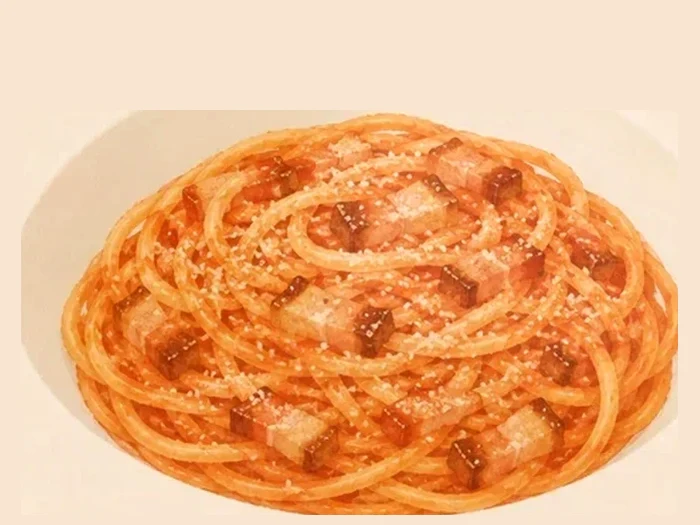
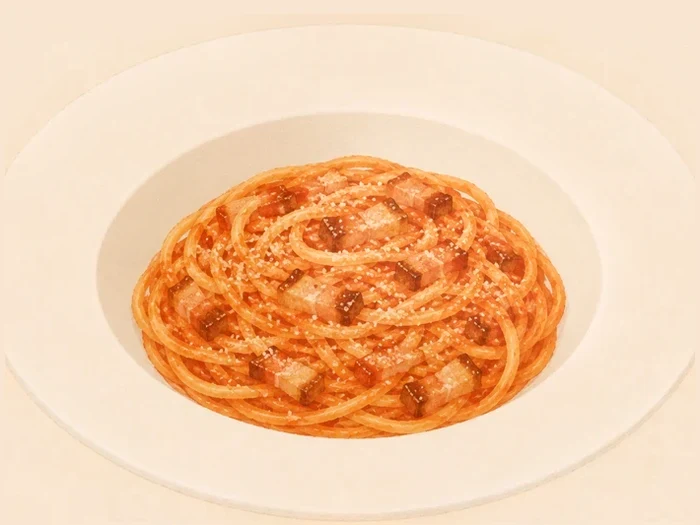
切口一律落在畫布邊界，不再是「貼一塊到背景上」
真正的 bug 找到了：我的做法是「裁一塊 → 貼到一張填滿背景色的畫布上」。
只要裁切線切過器皿，那條硬邊就落在畫布裡面、四周還圍著背景，
看起來就是盤子在半空中被削掉一塊。使用者的原話：
「不是在背景裡面盤子莫名就斷了」，「要切掉也是讓卡片的匡線切掉」。

改成：先由主體算縮放比，再回推「整張畫布對應到原圖的哪個窗」，直接裁那個窗。
這樣任何切口都發生在畫布邊界上，讀起來是自然的出血。

⚠ PIL 的 crop 超出原圖範圍時補「黑色」不是背景色 —— 第一版直接用，
r16 和 r17 上緣就出現一條黑邊。改成自己鋪一張背景色的底再貼。

FILL 0.94 → 0.98。卡片是 aspect-ratio:4/3 + object-fit:cover，跟素材同比例，
素材裡的留白會原樣顯示在卡片上，所以這個值直接決定「菜看起來多大」。

⛔ 撤回我先前說的「食物要變大只能重生成」。盤裡的留白是刻意的擺盤，
不是缺陷 —— 要大就整張等比放大，不是去切掉留白。

r3/r14/r15/r16 先還原到我第一次重切之前再切一次，避免越裁越近。

diff --git a/index.html b/index.html
@@ -810,7 +810,7 @@ ol.steps li::before {
    ══════════════════════════════════════════════ */
 
 /* 素材版本。換過圖就 bump 一次，否則瀏覽器會一直用舊的快取 */
-const ASSETS = '54';
+const ASSETS = '55';
 const asset = p => p + '?v=' + ASSETS;
 
 const $ = (s, el = document) => el.querySelector(s);

diff --git a/assets/crop_dish.py b/assets/crop_dish.py
@@ -14,7 +14,11 @@ from PIL import Image, ImageFilter
 
 TGT = (249, 230, 209)     # #F9E6D1，必須跟 index.html 的 --bg 完全一致
 OUT_W, OUT_H = 700, 525
-FILL = 0.94               # ⚠ 不要調到 1.0：撐滿會把器皿邊緣切掉（r17、r11 各踩過一次）
+FILL = 0.98               # 卡片是 aspect-ratio:4/3 + object-fit:cover，跟素材同比例，
+                          # 所以素材裡的留白會原樣顯示在卡片上 —— 這個值直接決定
+                          # 「菜看起來多大」。⚠ 不要到 1.0：分位數有誤差，撐滿會削到器皿邊。
+                          # ⛔ 也不要為了「食物看起來小」去切食物 —— 盤裡的留白是
+                          #    刻意的擺盤，切掉就沒有餐廳感了。要大就整張等比放大。
 SOLID = 18                # 兩邊都會出事，18 是實測的中間值：
                           #  · 太寬（34）→ 白色器皿被判成背景，整圈盤子被切掉
                           #  · 太窄（8） → 連紙紋和淡陰影都算進去，框會膨脹，
@@ -87,27 +91,41 @@ def gaps(flat, x0, x1, lo, hi, axis):
     return int(st.median(band)) if band else (lo + hi) // 2
 
 
-def render(flat, box, path):
-    """⚠ 垂直方向要「貼底」不是「置中」。東西放在桌上本來就對齊同一條底線 ——
-    置中的話，小盤子和小碟子會浮起來，跟旁邊坐在卡片底部的大鍋擺在一起就很明顯。
-    實測：置中切出來的 r10/r11 下緣留 41–61px，其他張只留 9–13px，
-    使用者的原話是「只有他們倆往上飄」。"""
+def render(flat, box, path, cell=None):
+    """⛔ 不要「裁一塊再貼到背景畫布上」。裁切線只要切過器皿，那條硬邊就會落在
+    畫布裡面、四周還圍著背景 —— 看起來像盤子在半空中被削掉一塊。
+    使用者的原話：「不是在背景裡面盤子莫名就斷了」。
+
+    正確做法：先由主體算出縮放比，再回推「整張畫布對應到原圖的哪個窗」，
+    直接裁那個窗。這樣任何切口都發生在畫布邊界上，讀起來就是自然的出血。
+
+    ⚠ 垂直方向貼底（見下），水平置中。
+    """
     l, r, t, b = box
     sc = min(OUT_W * FILL / (r - l), OUT_H * FILL / (b - t))
-    nw, nh = int((r - l) * sc), int((b - t) * sc)
-    # 對齊的是「看得見的底」，不是框的底 —— 框裡含著淡陰影，
-    # 拿框去貼底的話陰影會佔掉下緣，器皿本身還是浮著（r10 實測差 37px）。
+
+    # 看得見的底緣（淡陰影不算），拿來對齊 BASELINE
     f = flat.load()
-    strong = [y for y in range(t, b, 2) for x in range(l, r, 3) if d(f[x, y], TGT) > 70]
+    strong = [y for y in range(t, b, 2) for x in range(l, r, 3) if d(f[x, y], TGT) > FOOD]
     vis_b = max(strong) if strong else b
-    off = int((vis_b - t) * sc)                       # 看得見的底在貼上後的相對位置
-    top = min(max(OUT_H - BASELINE - off, 0), OUT_H - nh)   # FILL<1，nh 一定放得下
-    out = Image.new('RGB', (OUT_W, OUT_H), TGT)
-    out.paste(flat.crop((l, t, r, b)).resize((nw, nh), Image.LANCZOS),
-              ((OUT_W - nw) // 2, top))
+
+    win_w, win_h = OUT_W / sc, OUT_H / sc          # 畫布換算回原圖的尺寸
+    wx = (l + r) / 2 - win_w / 2                    # 水平置中
+    wy = vis_b + BASELINE / sc - win_h              # 讓可見底緣落在 BASELINE 上
+
+    x0, y0 = int(round(wx)), int(round(wy))
+    ww, wh = int(round(win_w)), int(round(win_h))
+    # ⚠ 窗常常會超出原圖（或超出這一格）。PIL 的 crop 超界時補「黑色」，
+    #    直接用會在畫面上留一條黑邊 —— 所以自己鋪一張背景色的底再貼。
+    cl, cr, ct, cb = cell if cell else (0, flat.size[0], 0, flat.size[1])
+    src = Image.new('RGB', (ww, wh), TGT)
+    kx0, ky0 = max(x0, cl), max(y0, ct)
+    kx1, ky1 = min(x0 + ww, cr), min(y0 + wh, cb)
+    if kx1 > kx0 and ky1 > ky0:
+        src.paste(flat.crop((kx0, ky0, kx1, ky1)), (kx0 - x0, ky0 - y0))
+    out = src.resize((OUT_W, OUT_H), Image.LANCZOS)
     out.save(path, 'WEBP', quality=88)
-    print(f'    {os.path.basename(path):<12} 主體 {r-l}×{b-t} → {nw}×{nh}'
-          f'，留白 {(OUT_W-nw)//2}/{(OUT_H-nh)//2}px'
+    print(f'    {os.path.basename(path):<12} 主體 {r-l}×{b-t} · 窗 {int(win_w)}×{int(win_h)}'
           f' · {round(os.path.getsize(path)/1024)} KB')
 
 
@@ -219,6 +237,7 @@ for cell, rid in zip(want, a.ids):
     y0, y1 = rows[cy] if cy < len(rows) else rows[0]
     band = cols[cy] if cy < len(cols) else cols[0]
     x0, x1 = band[cx] if cx < len(band) else band[0]
-    render(flat, bbox(flat, x0, x1, y0, y1), f'assets/dish/r{rid}.webp')
+    render(flat, bbox(flat, x0, x1, y0, y1), f'assets/dish/r{rid}.webp',
+           (x0, x1, y0, y1) if a.grid == '2x2' else None)
 
 print('\n  ⚠ 別忘了把 index.html 的 const ASSETS 加一號。')
